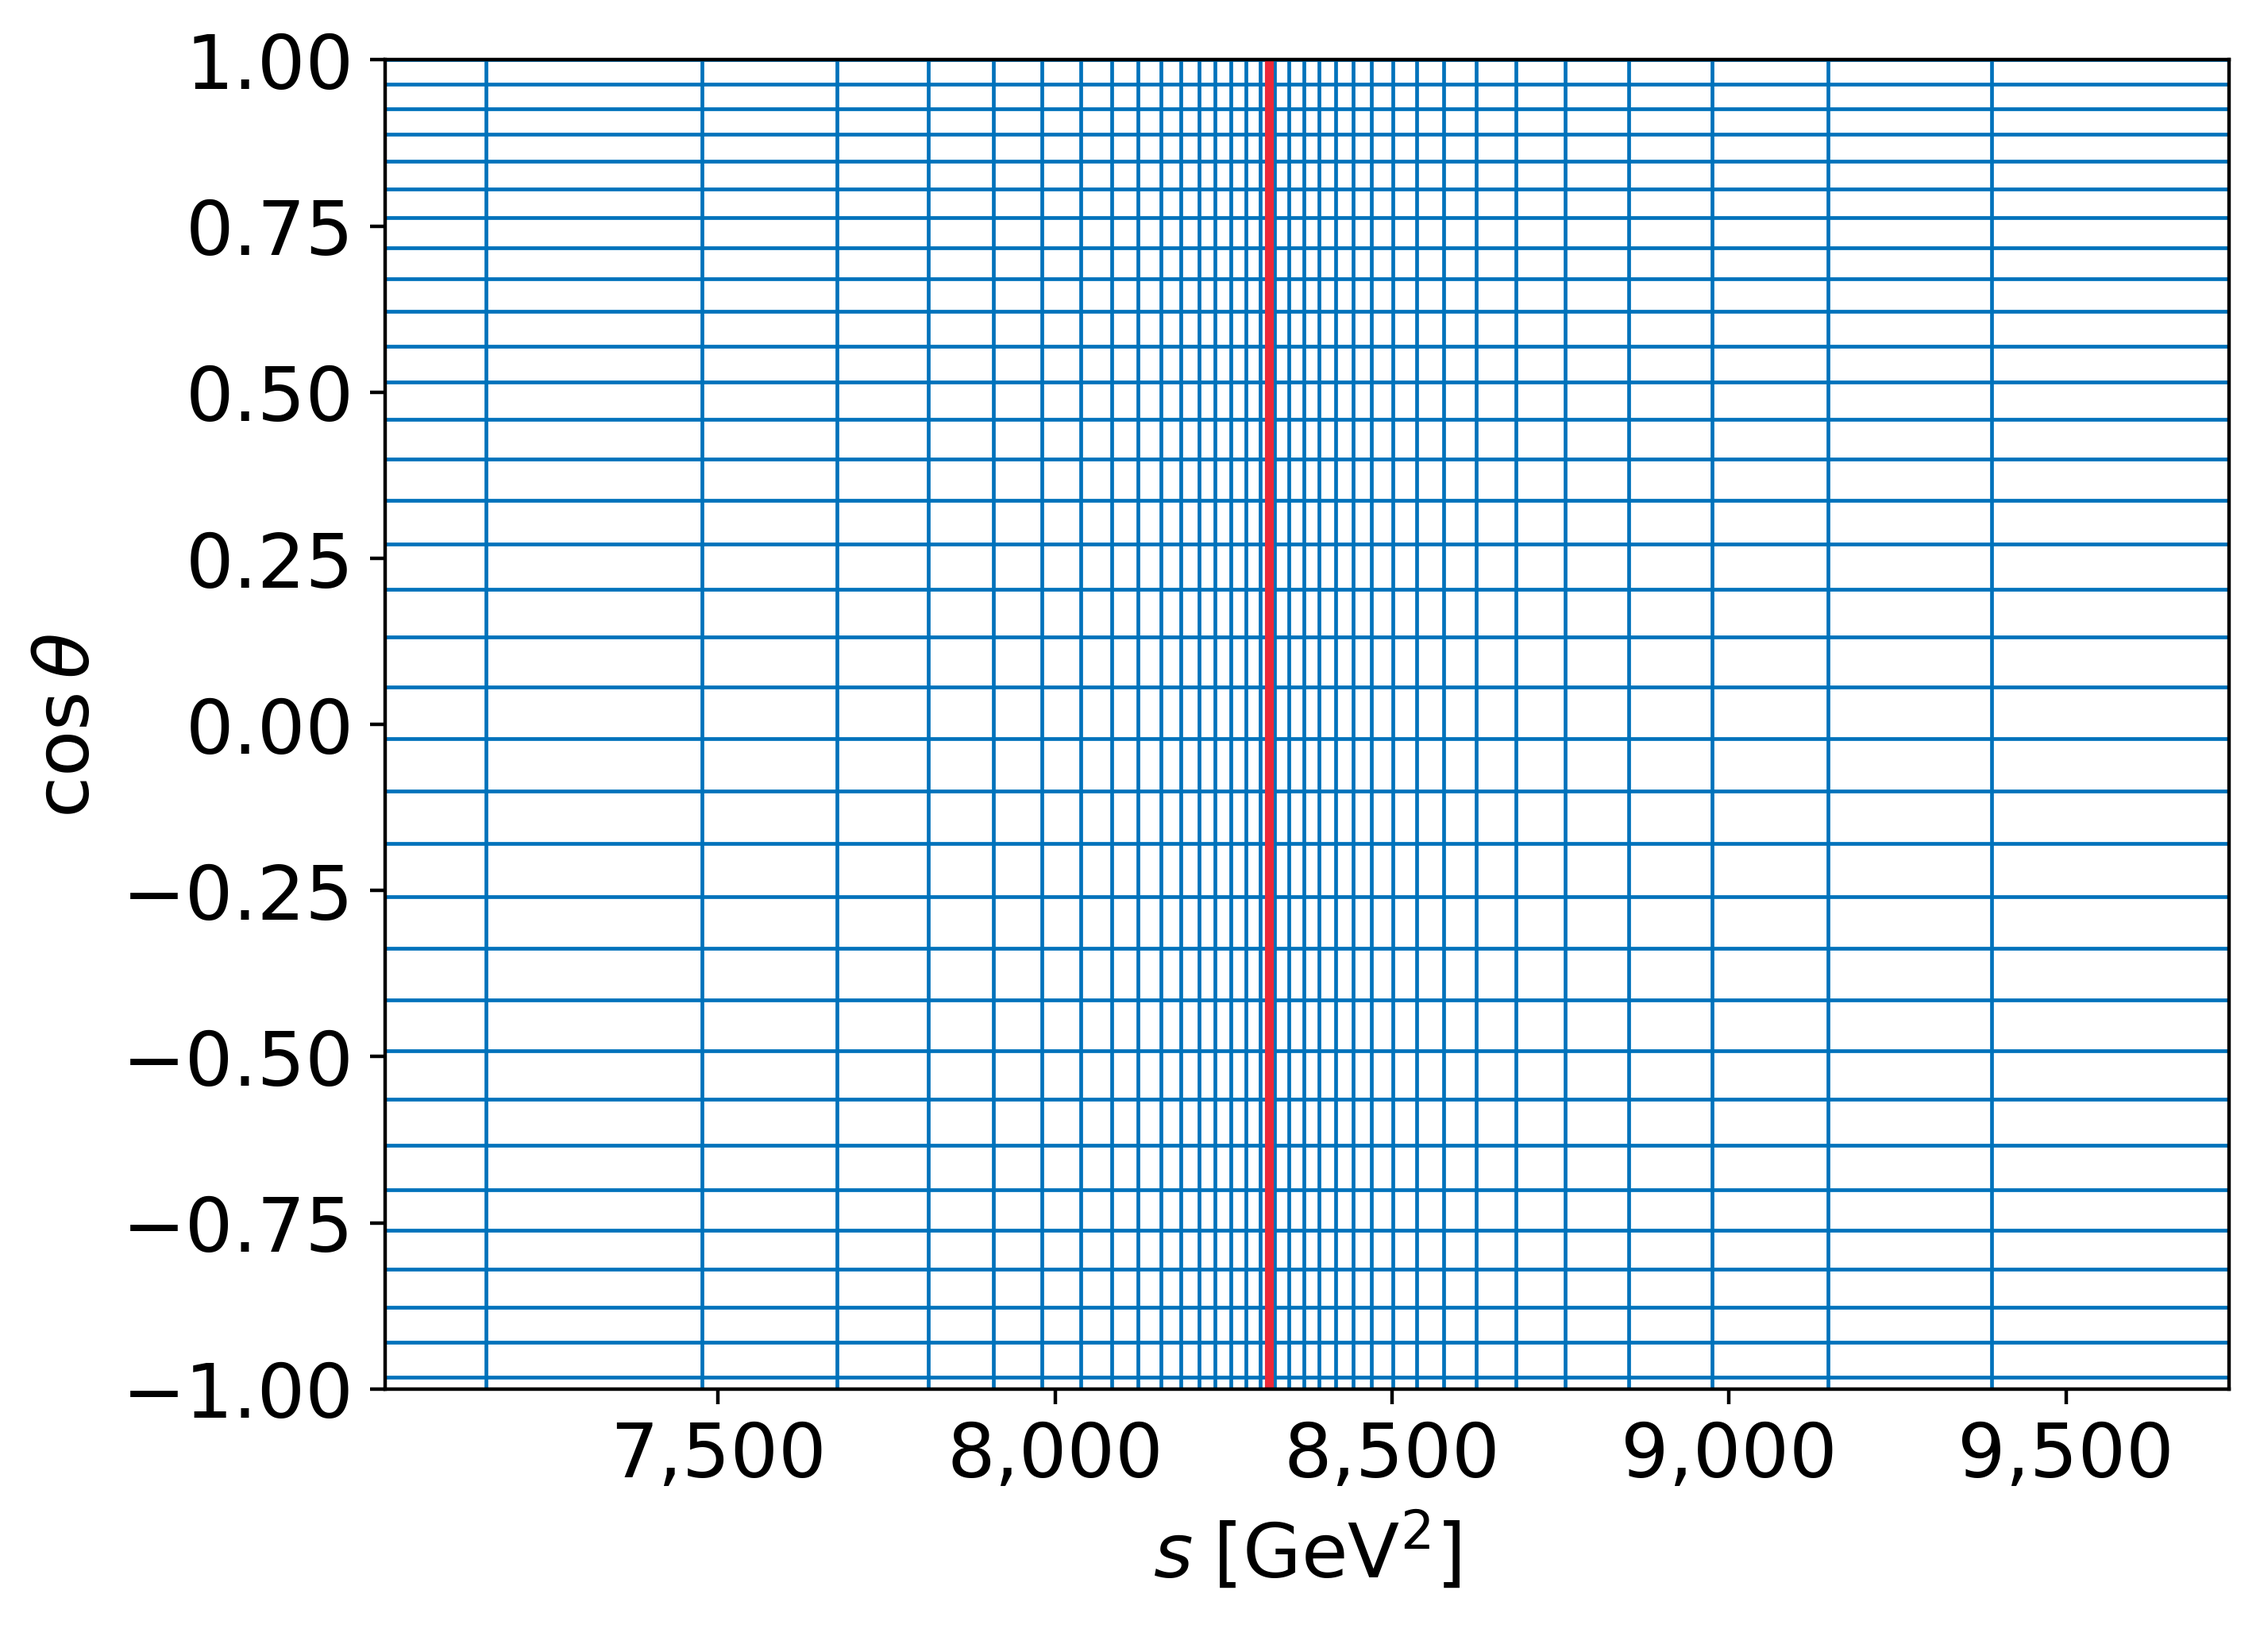
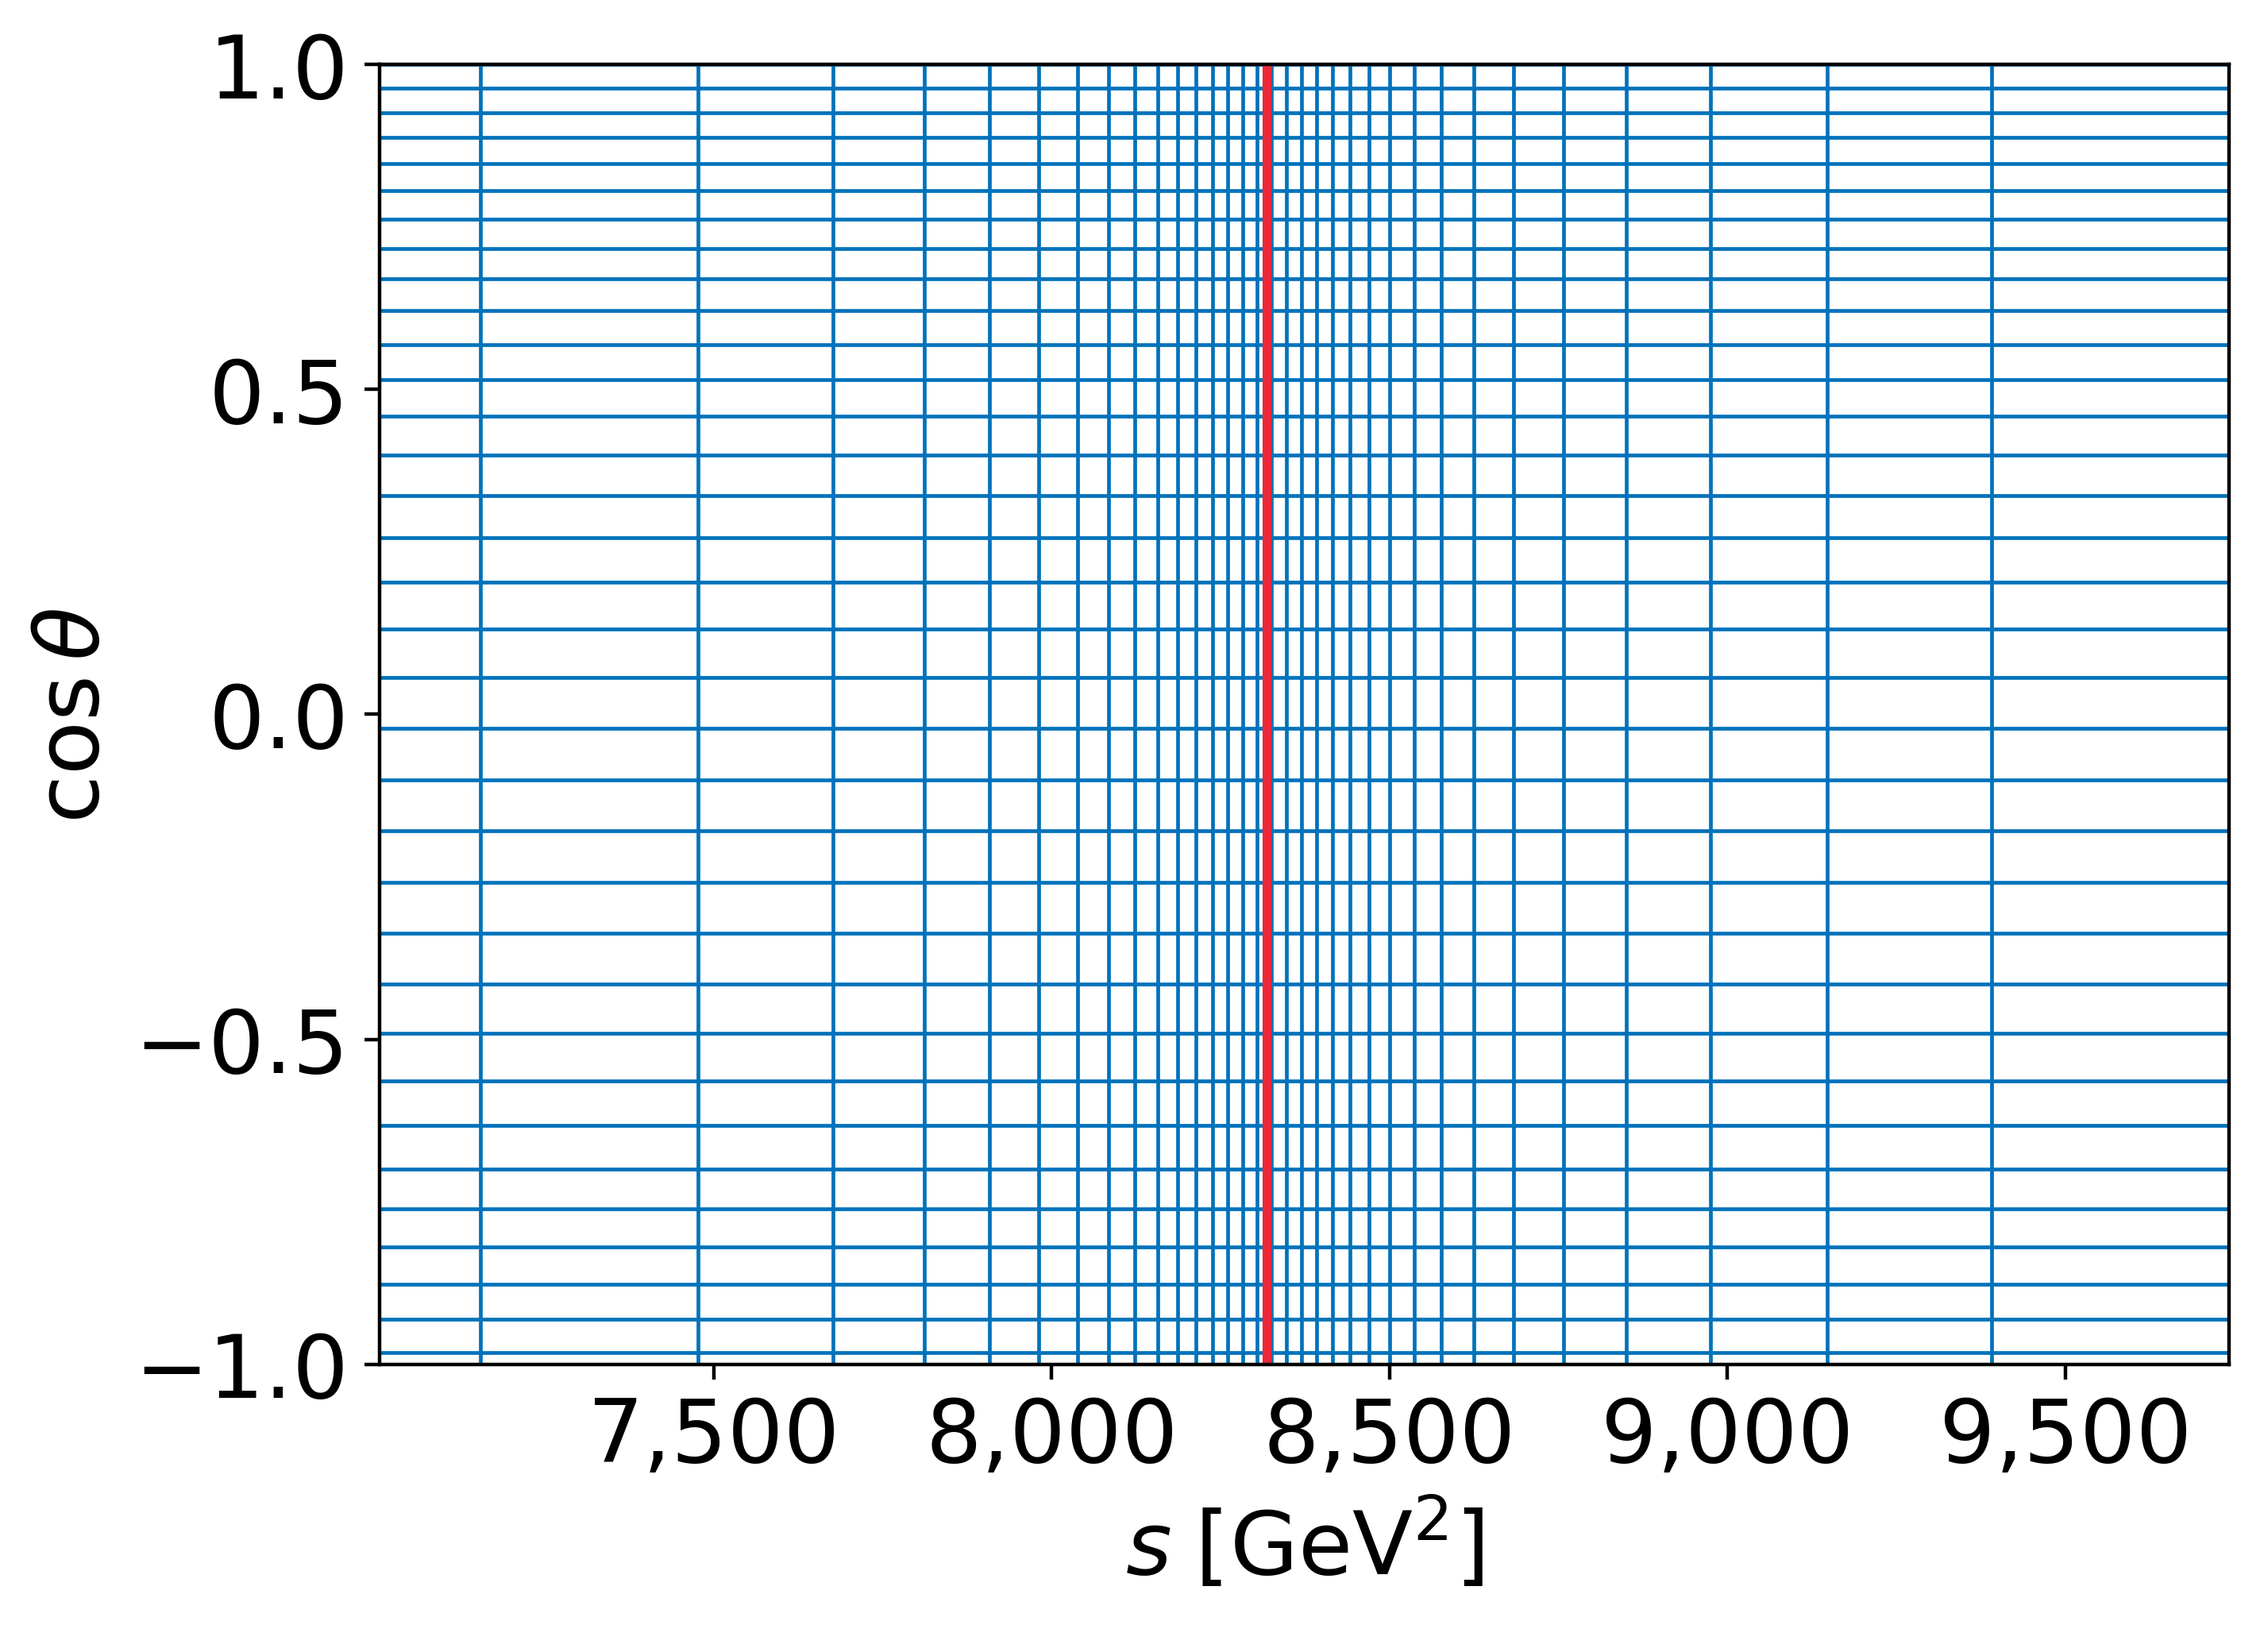
Small redo of figures.

Changed region(s): [[0.0, 0.0, 0.9895, 0.9853]]

diff --git a/exercise1/part_e.py b/exercise1/part_e.py
@@ -53,6 +53,6 @@ if __name__ == '__main__':
     s_max = (Z.mass + 3 * Z.width) ** 2
 
     save_figures = False
-    fig_div_factor = 0.7
+    fig_div_factor = 0.6
     dpi = 400
     main()
